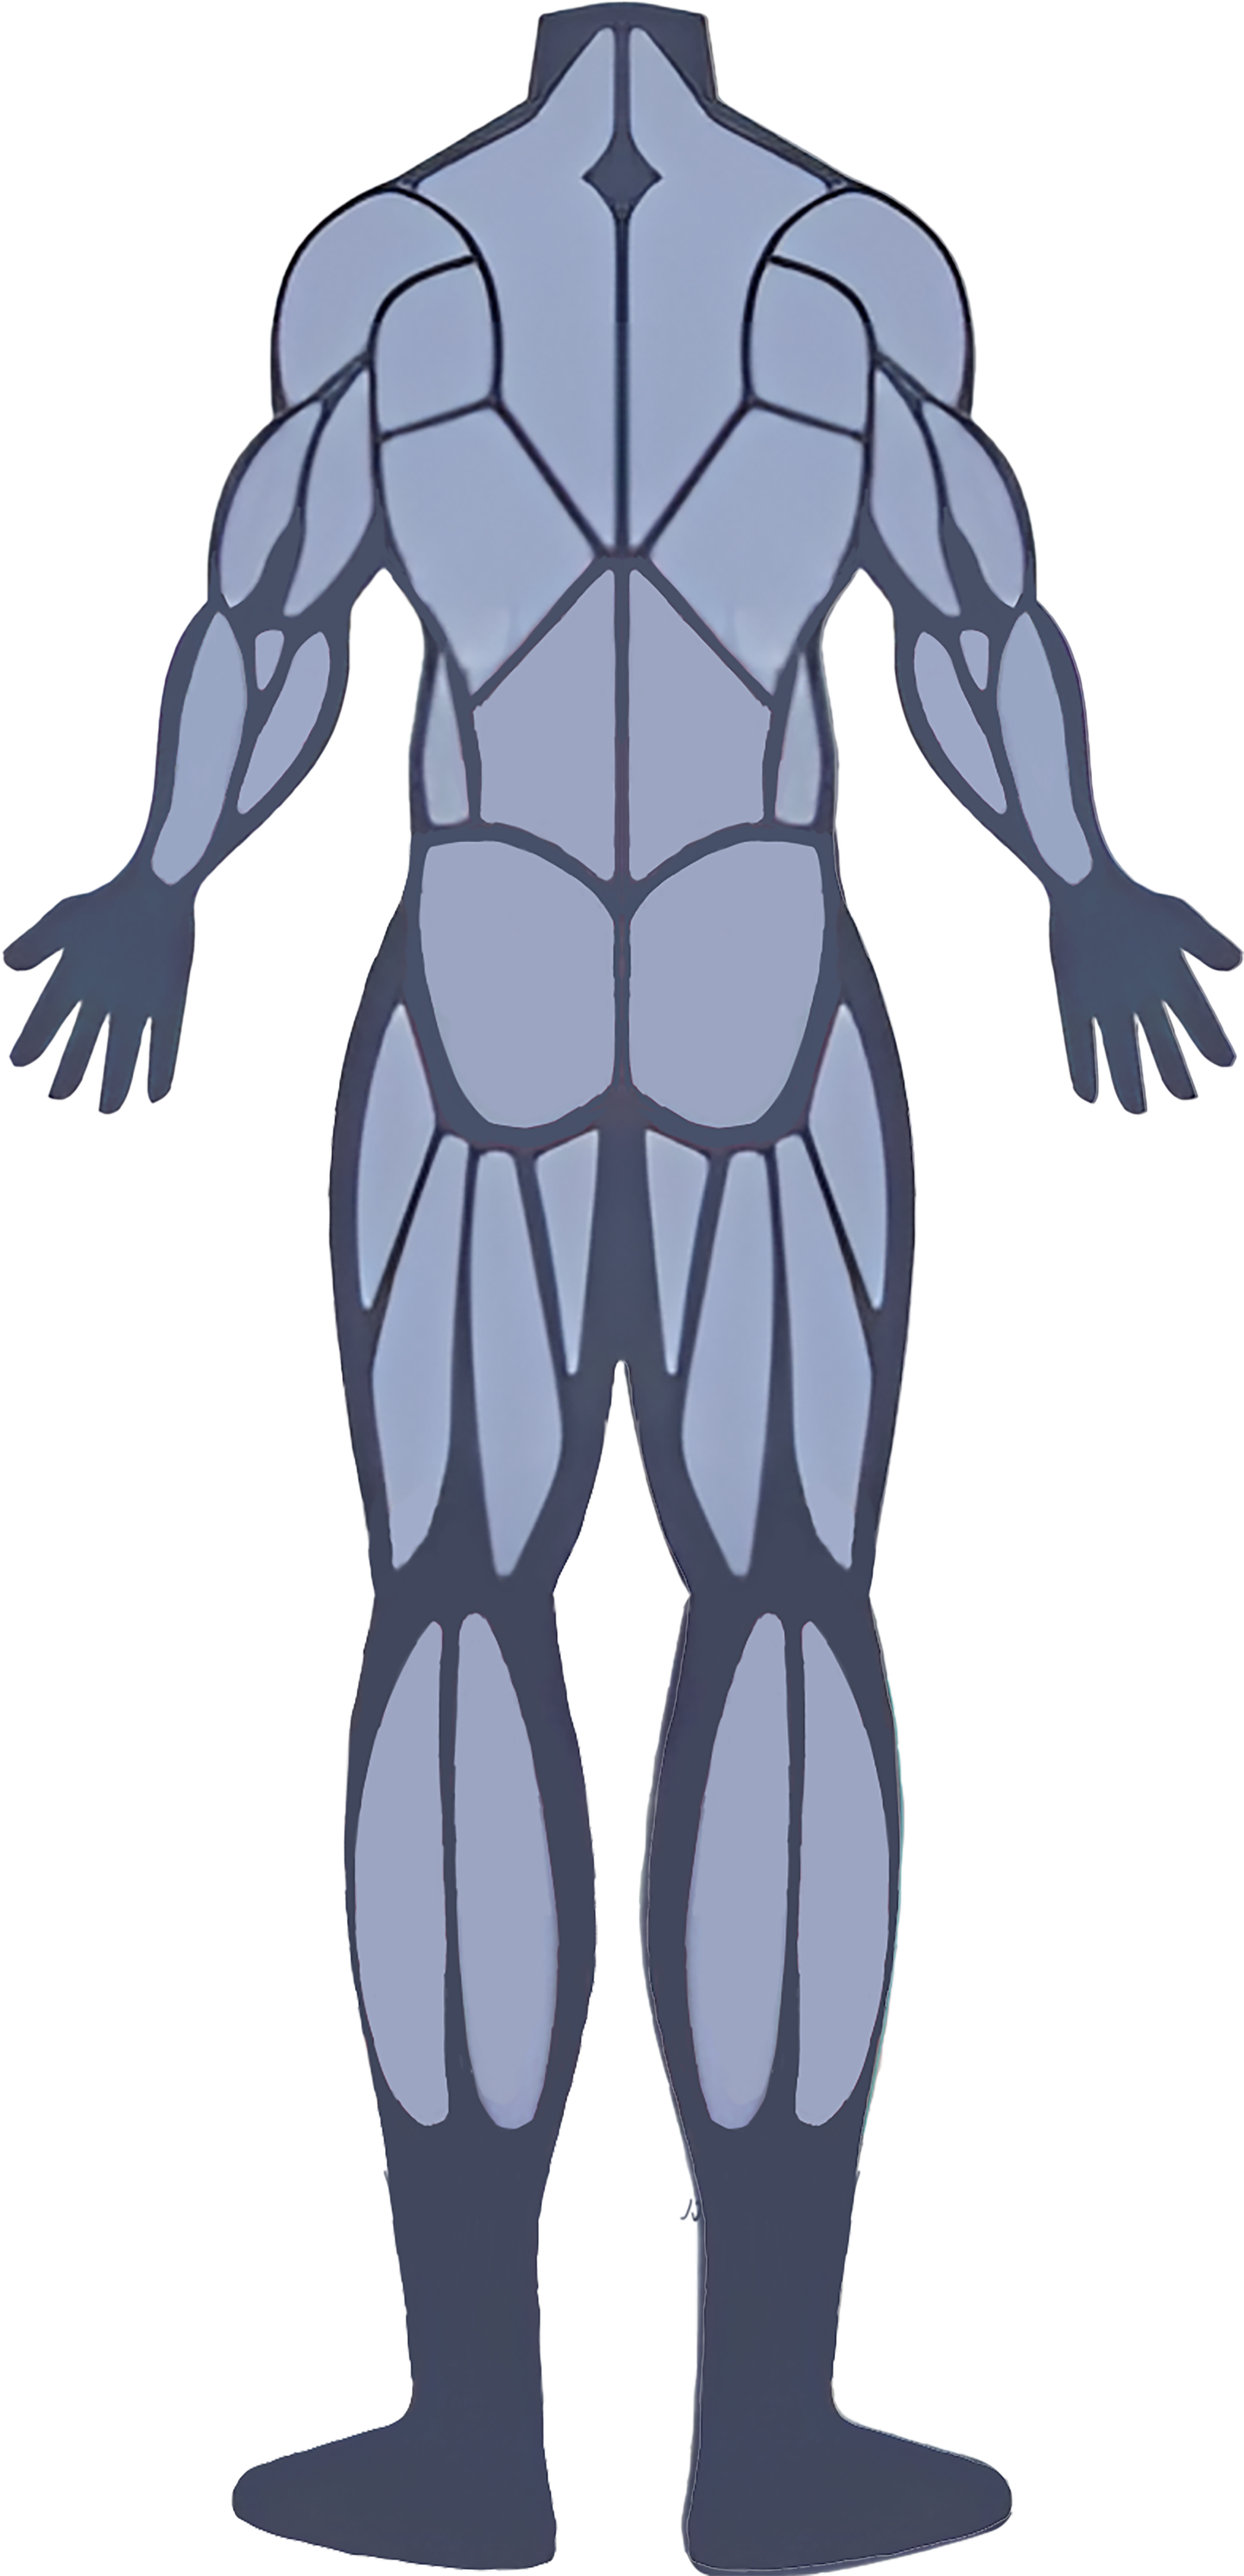
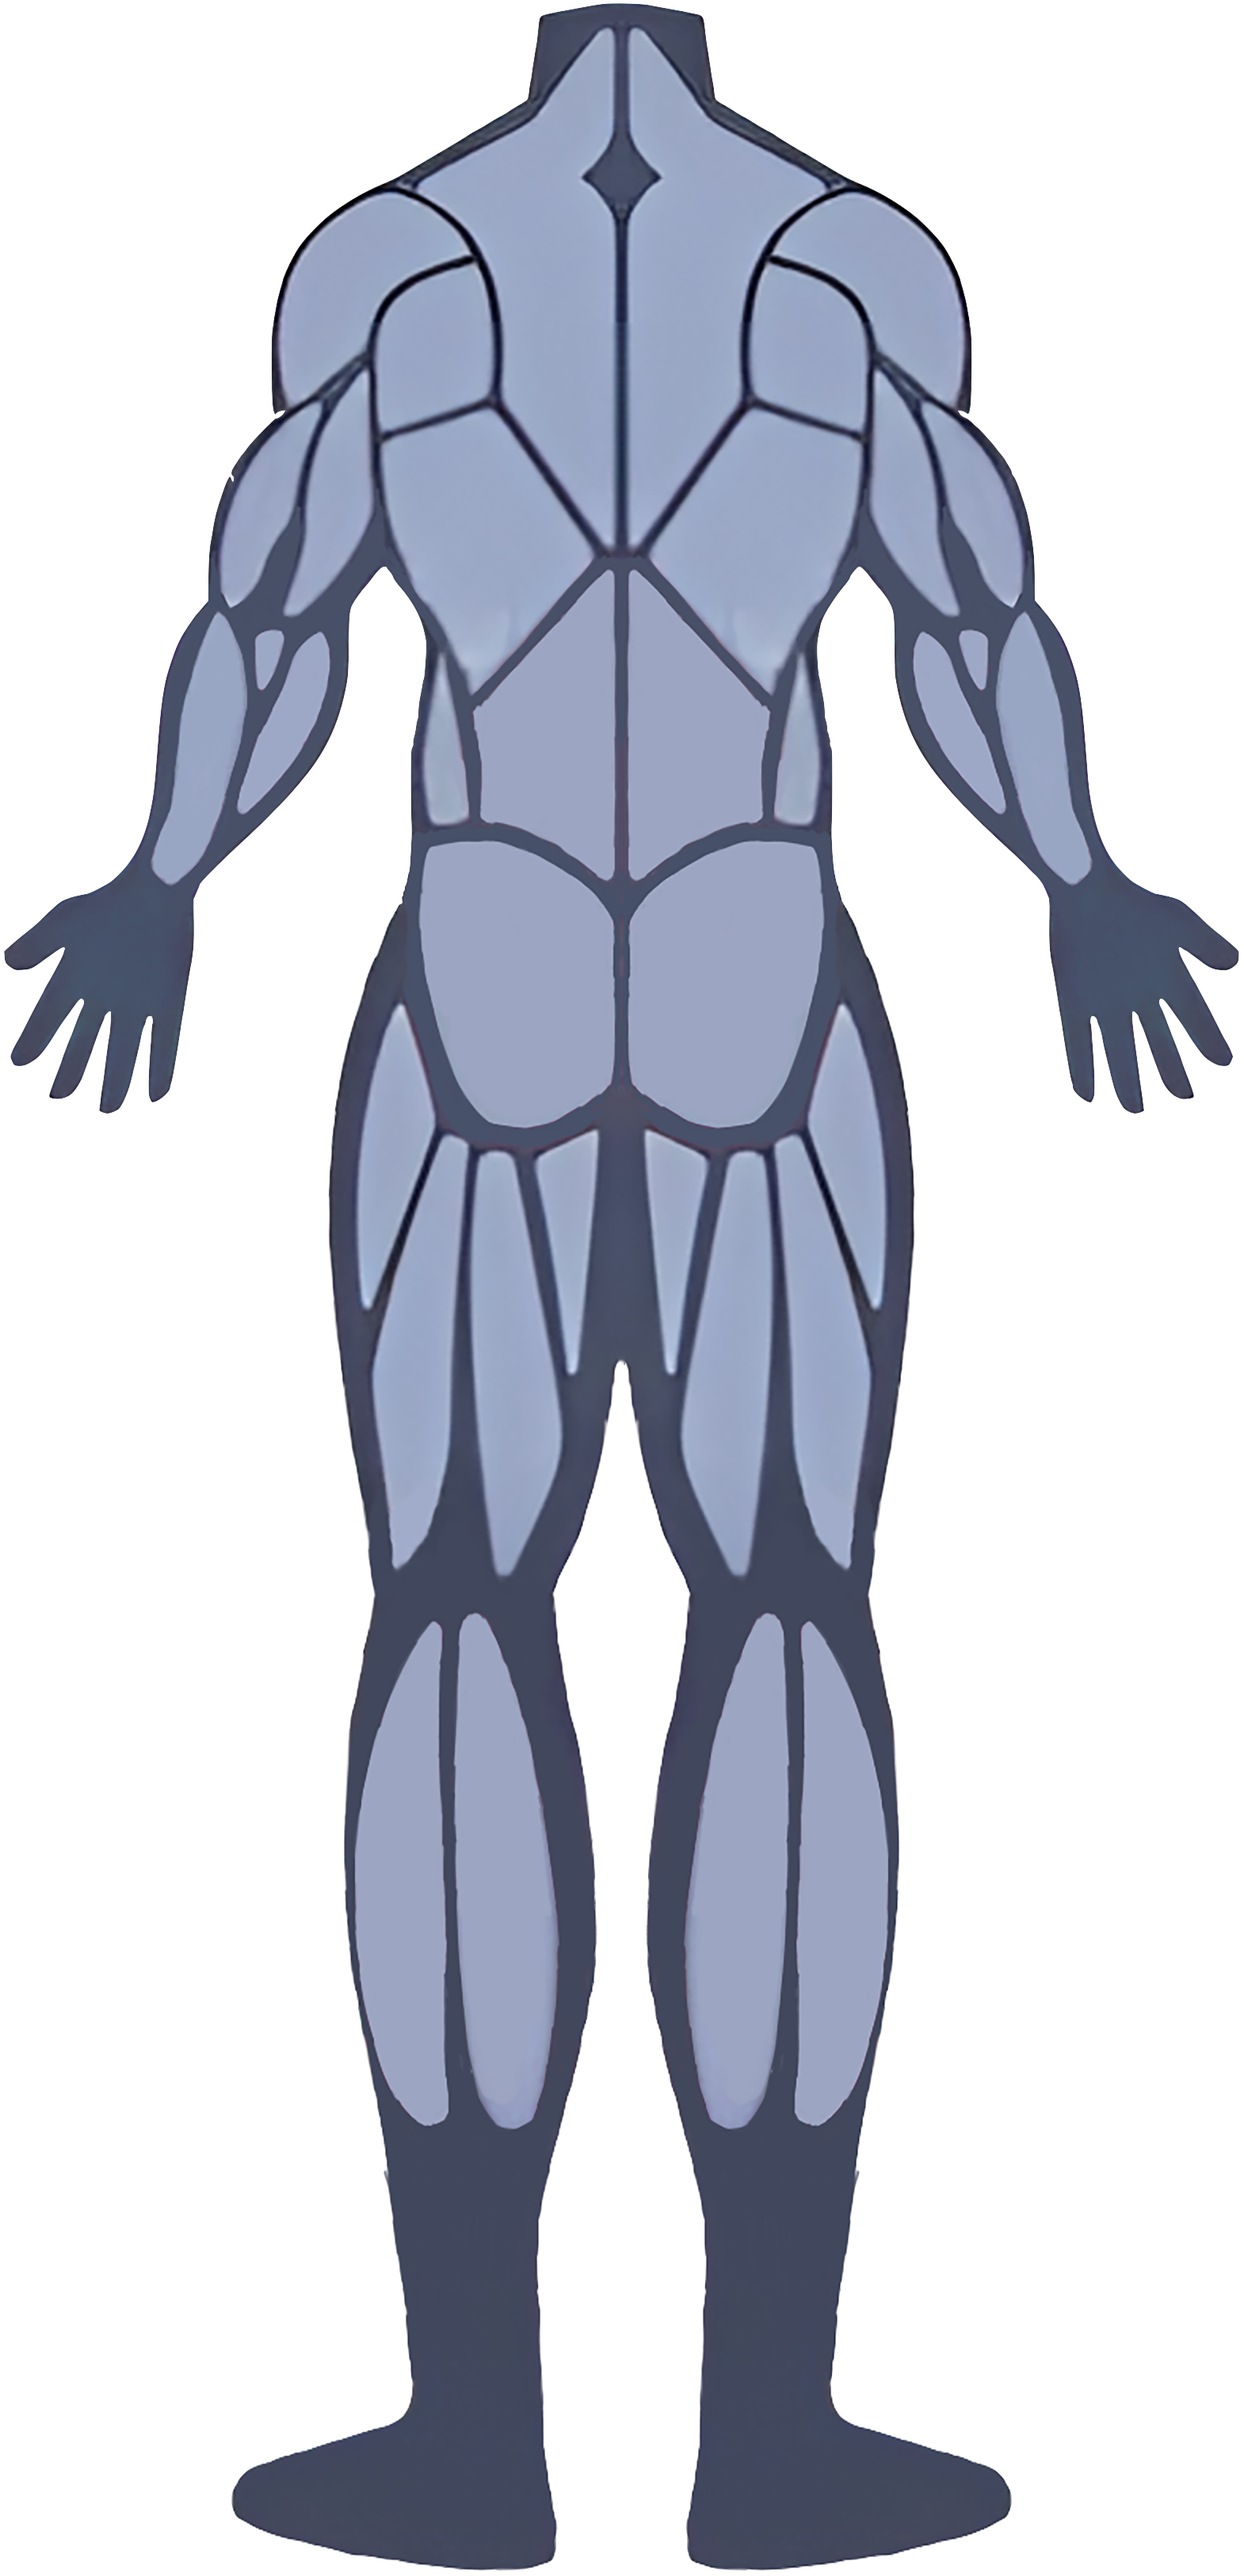
added bicep functionality

diff --git a/src/components/BodyModel/BodyModel.js b/src/components/BodyModel/BodyModel.js
@@ -1,164 +1,82 @@
-import React from "react";
+import React, { useContext } from "react";
 
 import "./BodyModel.css"; // This pulls the CSS file into your app
 
-const frontParts = [
-  {
-    name: "abs",
-    image: "body_parts_model/abs_full.png",
-    offsetX: -400,
-    offsetY: -520,
-    opacity: 0.1,
-  },
-  {
-    name: "upper abs",
-    image: "body_parts_model/abs_upper.png",
-    offsetX: -400,
-    offsetY: -520,
-    opacity: 0.1,
-  },
-  {
-    name: "lower abs",
-    image: "body_parts_model/abs_lower.png",
-    offsetX: -400,
-    offsetY: -520,
-    opacity: 0.1,
-  },
-  {
-    name: "biceps",
-    image: "body_parts_model/bicep.png",
-    offsetX: -400,
-    offsetY: -605,
-    opacity: 0.1,
-  },
-  {
-    name: "tibia",
-    image: "body_parts_model/calves_front.png",
-    offsetX: -375,
-    offsetY: 300,
-    opacity: 0.1,
-  },
-  {
-    name: "chest",
-    image: "body_parts_model/chest.png",
-    offsetX: -400,
-    offsetY: -600,
-    opacity: 0.1,
-  },
-  {
-    name: "forearms",
-    image: "body_parts_model/forearms_front.png",
-    offsetX: -100,
-    offsetY: -450,
-    rotation: 30,
-    scale: 0.8,
-  },
-  {
-    name: "obliques",
-    image: "body_parts_model/obliques.png",
-    offsetX: -400,
-    offsetY: 500,
-  },
-  {
-    name: "shoulder_front",
-    image: "body_parts_model/shoulder_front.png",
-    offsetX: -400,
-    offsetY: 500,
-  },
-  {
-    name: "thigh_inner",
-    image: "body_parts_model/thigh_inner.png",
-    offsetX: -400,
-    offsetY: 500,
-  },
-  {
-    name: "thigh_lower",
-    image: "body_parts_model/thigh_lower.png",
-    offsetX: -400,
-    offsetY: 500,
-  },
-  {
-    name: "thigh_outer",
-    image: "body_parts_model/thigh_outer.png",
-    offsetX: -400,
-    offsetY: 500,
-  },
-  {
-    name: "thigh",
-    image: "body_parts_model/thigh.png",
-    offsetX: -400,
-    offsetY: 500,
-  },
-  {
-    name: "back_lower",
-    image: "body_parts_model/back_lower.png",
-  },
-  {
-    name: "calves",
-    image: "body_parts_model/calves.png",
-  },
-  {
-    name: "forearms_back",
-    image: "body_parts_model/forearms_back.png",
-  },
-  {
-    name: "glutes",
-    image: "body_parts_model/glutes.png",
-  },
-  {
-    name: "hamstring",
-    image: "body_parts_model/hamstring.png",
-  },
-  {
-    name: "lats",
-    image: "body_parts_model/lats.png",
-  },
-  {
-    name: "neck",
-    image: "body_parts_model/neck.png",
-  },
-  {
-    name: "shoulder_back",
-    image: "body_parts_model/shoulder_back.png",
-  },
-  {
-    name: "trapezius",
-    image: "body_parts_model/trapezius.png",
-  },
-  {
-    name: "triceps",
-    image: "body_parts_model/triceps.png",
-  },
-];
+import { useAuth } from "../../AuthContext";
 
 export default function App() {
+  const { username, setUsername, password, setPassword, bicep, setBicep } =
+    useAuth();
+
   return (
     <div className="body-model">
       <div className="front-parts">
         <img
           src="body front blank.png"
           style={{
-            transform: `translate(0px, 1700px) 
+            position: "absolute",
+            transform: `translate(-1000px,  -1425px) 
                           rotate(0deg) 
-                          scale(0.4)`,
+                          scale(0.25)`,
           }}
         />
         <img
           src="body back blank.png"
           style={{
-            transform: `translate(0px, 0px) 
+            position: "absolute",
+            transform: `translate(-340px, -1625px)
                           rotate(0deg) 
-                          scale(1)`,
+                          scale(0.22)`,
           }}
         />
-        {/* <img
-          src="body back blank.png"
-          style={{
-            transform: `translate(400px, 0px) 
-                          rotate(0deg) 
-                          scale(0.23)`,
-          }}
-        /> */}
+
+        {bicep == "red" && (
+          <div>
+            <img
+              src="bicep red.png"
+              style={{
+                position: "absolute",
+                transform: `translate(-140px, -380px)
+                            rotate(0deg)
+                            scale(0.24)`,
+              }}
+            />
+            <img
+              src="bicep red.png"
+              style={{
+                position: "absolute",
+                transform: `translate(-346px, -380px)
+                          rotate(0deg)
+                          scale(0.24)
+                          scaleX(-1)`,
+              }}
+            />
+          </div>
+        )}
+
+        {bicep == "yellow" && (
+          <div>
+            <img
+              src="bicep yellow.png"
+              style={{
+                position: "absolute",
+                transform: `translate(-140px, -383px)
+                            rotate(0deg)
+                            scale(0.24)`,
+              }}
+            />
+            <img
+              src="bicep yellow.png"
+              style={{
+                position: "absolute",
+                transform: `translate(-346px, -383px)
+                          rotate(0deg)
+                          scale(0.24)
+                          scaleX(-1)`,
+              }}
+            />
+          </div>
+        )}
       </div>
     </div>
   );

diff --git a/src/components/Workout/WorkOutInput.jsx b/src/components/Workout/WorkOutInput.jsx
@@ -2,6 +2,7 @@
 import React, { useState, useEffect } from "react";
 import "./WorkOutInput.css";
 import Select from "react-select";
+import { useAuth } from "../../AuthContext";
 
 const muscleGroups = [
   {
@@ -121,6 +122,9 @@ const muscleGroups = [
 const Workout = () => {
   const [workouts, setWorkouts] = useState([]);
 
+  const { username, setUsername, password, setPassword, bicep, setBicep } =
+    useAuth();
+
   const customStyles = {
     option: (provided, state) => ({
       ...provided,
@@ -189,7 +193,8 @@ const Workout = () => {
   const handleSubmit = async (e) => {
     e.preventDefault();
 
-    const { exerciseName, muscleGroup, sets, reps, weight } = workoutData;
+    const { exerciseName, muscleGroup, sets, reps, weight } = workoutData; // !!
+
     if (exerciseName === "" || muscleGroup === "") {
       alert("Please enter the exercise name and muscle group.");
       return;
@@ -199,9 +204,13 @@ const Workout = () => {
       return;
     }
 
-    // ADD API CALL HERE
-    console.log("Workout Data Submitted:", workoutData);
     addWorkout(workoutData);
+
+    if (muscleGroup === "Biceps Brachii" && bicep === "yellow") {
+      setBicep("red");
+    } else if (muscleGroup === "Biceps Brachii") {
+      setBicep("yellow");
+    }
   };
 
   return (

diff --git a/src/AuthContext.js b/src/AuthContext.js
@@ -5,10 +5,11 @@ const AuthContext = createContext();
 export function AuthProvider({ children }) {
   const [username, setUsername] = useState("");
   const [password, setPassword] = useState("");
+  const [bicep, setBicep] = useState("gray");
 
   return (
     <AuthContext.Provider
-      value={{ username, setUsername, password, setPassword }}
+      value={{ username, setUsername, password, setPassword, bicep, setBicep }}
     >
       {children}
     </AuthContext.Provider>

diff --git a/src/components/SignUp/SignUp.jsx b/src/components/SignUp/SignUp.jsx
@@ -4,7 +4,8 @@ import { useNavigate } from 'react-router-dom';
 import './SignUp.css';
 
 function SignUp({ isOpen, onClose }) {
-    const { username, setUsername, password, setPassword } = useAuth();
+    const { username, setUsername, password, setPassword, bicep, setBicep } =
+        useAuth();
 
     const navigate = useNavigate();
 
